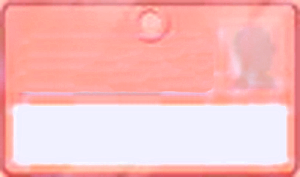
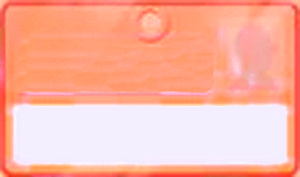
Design spymaster toolbar

diff --git a/CodeNames/CodeNames.WebApp/Content/Site.css b/CodeNames/CodeNames.WebApp/Content/Site.css
@@ -170,28 +170,47 @@
 }
 
 
-
-.cn-spy-master-toolbar.red-turn button
-{
-    background-color: red;
-    transition: background-color 2s ease;
+.cn-spy-master-toolbar span{
+    font-weight: bold;
 }
+
 .cn-spy-master-toolbar.red-turn
 {
-    background-color: #E34F1D;
+    background-color: #ff4e31;
     transition: background-color 2s ease;
 }
+.cn-spy-master-toolbar.red-turn button
+{
+    background-color: #a13d2d;
+    color: #fff;
+    border-color: #582118;
+    transition: background-color 2s ease;
+}
+.cn-spy-master-toolbar.red-turn button:hover
+{
+    background-color: #7d281a;
+    transition: background-color 0.5s ease;
+}
+
 
 .cn-spy-master-toolbar.blue-turn
 {
-    background-color: #4069A3;
+    background-color: #698AEA;
     transition: background-color 2s ease;
 }
 .cn-spy-master-toolbar.blue-turn button
 {
-    background-color: blue;
+    background-color: #455B99;
+    color: #fff;
+    border-color: #2D3B62;
     transition: background-color 2s ease;
 }
+.cn-spy-master-toolbar.blue-turn button:hover
+{
+    background-color: #2e3e6c;
+    transition: background-color 0.5s ease;
+}
+
 
 
 #spyMasterMessage{
